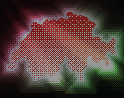
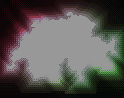
Better endScreen
I'm starting making actual scenes and not weird transition by destroying then adding elements.

Changed region(s): [[0.0484, 0.1224, 0.9435, 0.8265]]

diff --git a/JS/gameEnd.js b/JS/gameEnd.js
@@ -1,95 +1,83 @@
 /* Function for the game's end to work */
 
-function endScreen(scenarioPlayed, votesTotal) {        /* Function to display the end screen with all the needed parameters */
+scene("victoryPage", ({ isWin, playedScene, votes }) => {
     music_game.pause();
     music_menu.play();
 
-    const endBG = add([                                     // add background image
+    layers([
+        "bg",
+        "victoryState"
+    ]);
+
+    const endBG = add([
+        sprite("ui_end"),
         scale(7),
         pos(0, 0),
-        sprite("ui_end"),
-        area(),
-        "end_BG"
+        layer("bg")
     ]);
 
-    destroyAll("event");                                    // destroy everything
-    destroyAll("texts_game");
-    destroyAll("UI");
-    endBG.onHover(() => {
-        destroyAll("score");
-    });
+    const victoryOrFailure = isWin == true ? "victory" : "failure";
 
-    const endTxt = add([                                    // add end screen text based on the scenario played
-        origin("center"),                                   // currently empty; will be filled in once the player pressed continue
+    const victoryFailure = add([
+        scale(7),
         pos(width() / 2, (height() / 2) - 70),
-        text("", {
-            size: 26,
-            width: 800,
-            font: "sinko",
-        }),
-        "text_end"
+        origin("center"),
+        layer("victoryState"),
+        sprite(victoryOrFailure, { anim: "animated_BG" })
     ]);
 
-    let victoryFailure;                                     // useful variabless
-    let isWin = false;
-
-    if (votesTotal > 50) isWin = true;                      // if the player has more than 50% votes, it's a victory
-
-    if (isWin) {                                            // if the player won
-        victoryFailure = add([                                  // display the "Victory!" animation
-            scale(7),
-            pos(width() / 2, (height() / 2) - 49),
-            origin("center"),
-            sprite("victory", { anim: "animated_BG" })
-        ]);
-    }
-    else {                                                  // if the player lost
-        victoryFailure = add([                                  // display the "Failure!" animation
-            scale(7),
-            pos(width() / 2, (height() / 2) - 70),
-            origin("center"),
-            sprite("failure", { anim: "animated_BG" })
-        ]);
-    }
-
-    const skipTxt = add([                                   // button "continue"
+    const skipTxt = add([
         scale(4),
         origin("center"),
         pos(width() / 2, (height() / 2) + 100),
         sprite("continue"),
         area(),
-        "continue",
-        "text_end"
+        layer("victoryState")
     ]);
 
-    skipTxt.onClick(() => {                                 // onClick for the "continue" button
-        play("on_click_1");                                 // play onClick sound
-        victoryFailure.destroy();                           // destroy the other texts and the "continue" button
-        skipTxt.destroy();
+    skipTxt.onClick(() => {
+        play("on_click_1");
+        go("endExplaination", ({ isVictory: isWin, sceneTxtToShow: playedScene, votesTotal: votesCount.value }));
+    })
+});
 
-        if (isWin) {                                        // if the player won, show the correct text
-            endTxt.text = scenarios[scenarioPlayed][15] + "\n\nYour score was: " + votesTotal + "%! Congrats!";
-        }
-        else {                                              // if the player did not win, show the correct text
-            endTxt.text = scenarios[scenarioPlayed][16] + "\n\nYour score was: " + votesTotal + "%! Better luck next time!";
-        }
+scene("endExplaination", ({ isVictory, sceneTxtToShow, votesTotal }) => {
+    layers([
+        "bg",
+        "txt"
+    ]);
 
-        let btnToMenu = add([                               // add a button to go to the main menu
-            scale(4),
-            origin("center"),
-            pos(width() / 2, (height() / 2) + 250),
-            sprite("to_menu"),
-            area(),
-            "text_end"
-        ]);
+    const endBG = add([
+        sprite("ui_end"),
+        scale(7),
+        pos(0, 0),
+        layer("bg")
+    ]);
 
-        btnToMenu.onClick(() => {                           // onClick the menu button
-            destroyAll("text_end");
-            destroyAll("end_BG");
+    const victFail = isVictory == true ? 15 : 16;
 
-            play("on_click_2");                             // play onClick sound
+    const endTxt = add([
+        origin("center"),
+        pos(width() / 2, (height() / 2) - 70),
+        text(scenarios[sceneTxtToShow][victFail] + "\n\nYour score was: " + votesTotal + "%", {
+            size: 30,
+            width: 800,
+            font: "sinko",
+        }),
+        layer("txt")
+    ]);
 
-            myTitleScreen();                                // go to menu
-        })
-    });
-}
+    const btnToMenu = add([
+        scale(4),
+        origin("center"),
+        pos(width() / 2, (height() / 2) + 250),
+        sprite("to_menu"),
+        area(),
+        layer("txt")
+    ]);
+
+    btnToMenu.onClick(() => {
+        play("on_click_2");
+        go("titleScreen");
+    })
+});

diff --git a/JS/game.js b/JS/game.js
@@ -29,12 +29,14 @@ function testGame(top, bottom, scene, turn) {       /* Function that places the 
     ]);
 
     elemTop.onClick(() => {                             // onClicks and onHover to call functions (if the play can play)
-        if ((moneyCount.value < scores[top][2] && scores[top][4] == false) && (moneyCount.value < scores[bottom][2] && scores[bottom][4] == false)) endScreen(scene, votesCount.value);
+        if ((moneyCount.value < scores[top][2] && scores[top][4] == false) && (moneyCount.value < scores[bottom][2] && scores[bottom][4] == false) && votesCount.value < 50) go("victoryPage", ({ isWin: false, playedScene: scene, votes: votesCount.value }));
+        else if ((moneyCount.value < scores[top][2] && scores[top][4] == false) && (moneyCount.value < scores[bottom][2] && scores[bottom][4] == false) && votesCount.value > 50) go("victoryPage", ({ isWin: true, playedScene: scene, votes: votesCount.value }));
         else checkClick(top, true, scene, turn);
     });
 
     elemBottom.onClick(() => {
-        if ((moneyCount.value < scores[top][2] && scores[top][4] == false) && (moneyCount.value < scores[bottom][2] && scores[bottom][4] == false)) endScreen(scene, votesCount.value);
+        if ((moneyCount.value < scores[top][2] && scores[top][4] == false) && (moneyCount.value < scores[bottom][2] && scores[bottom][4] == false) && votesCount.value < 50) go("victoryPage", ({ isWin: false, playedScene: scene, votes: votesCount.value }));
+        else if ((moneyCount.value < scores[top][2] && scores[top][4] == false) && (moneyCount.value < scores[bottom][2] && scores[bottom][4] == false) && votesCount.value > 50) go("victoryPage", ({ isWin: true, playedScene: scene, votes: votesCount.value }));
         else checkClick(bottom, false, scene, turn);
     });
 
@@ -104,7 +106,10 @@ function checkClick(nbr, isTop, scn, currentTurn) {                             
         currentTurn++;                                                                      //increment and relaunch the game function to start a new round
         daysUntilVote.text = (11 - currentTurn) + " days left";
         if (currentTurn <= 10) testGame(scenarios[scn][currentTurn][0], scenarios[scn][currentTurn][1], scn, currentTurn);
-        else endScreen(scn, votesCount.value);
+        else {
+            if (votesCount.value > 50) go("victoryPage", ({ isWin: true, playedScene: scn, votes: votesCount.value }));
+            else go("victoryPage", ({ isWin: false, playedScene: scn, votes: votesCount.value }));
+        }
     }
 }
 
